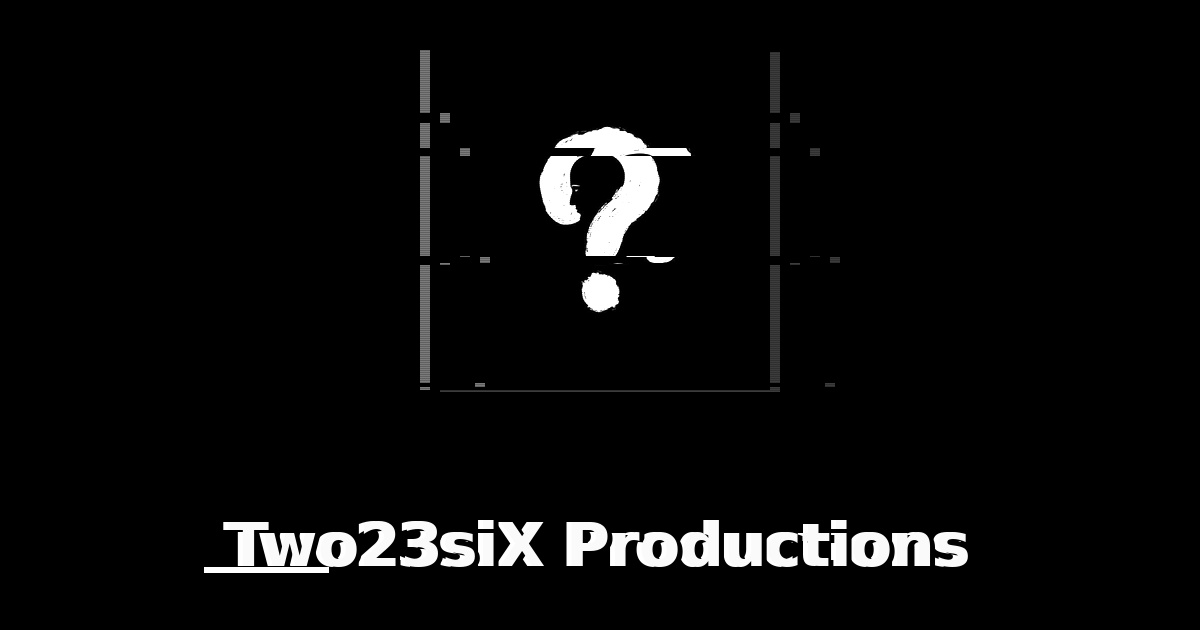
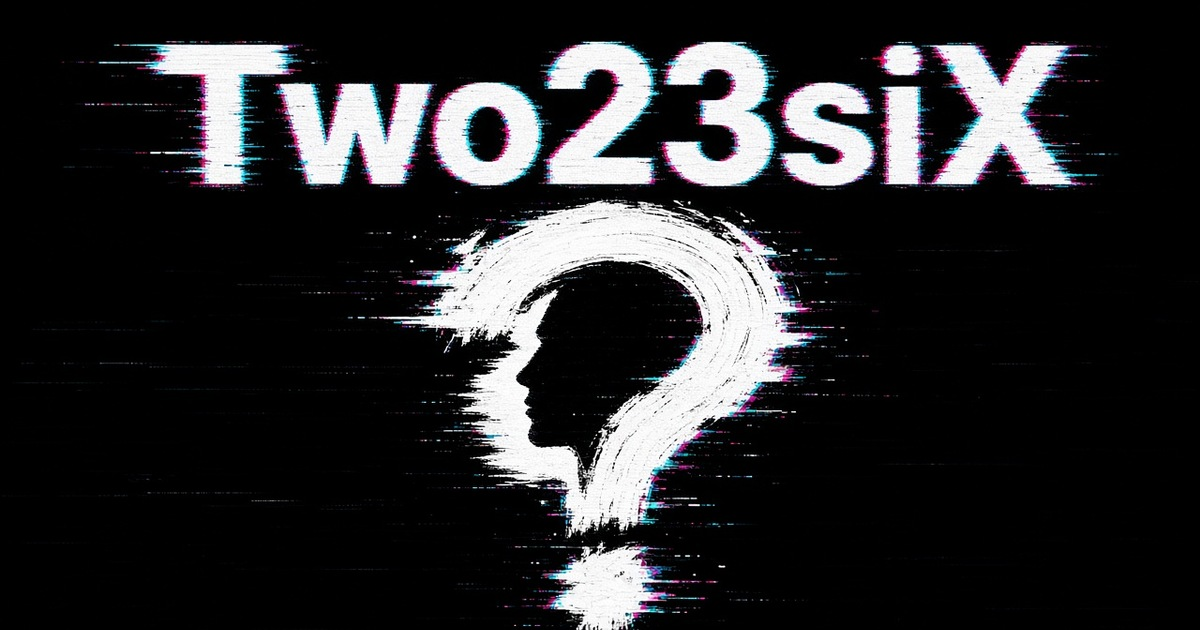
Force new Two23siX glitch OG across all share filenames + cache bust

Changed region(s): [[0.0617, 0.0603, 0.925, 1.0]]

diff --git a/index.html b/index.html
@@ -5,18 +5,18 @@
   <meta charset="UTF-8" />
   <meta name="viewport" content="width=device-width, initial-scale=1" />
   <title>TIME TRAVELER</title>
-  <meta name="tt-cache" content="20260912-og-share-v3" />
+  <meta name="tt-cache" content="20260912-og-v3b" />
   <!-- ttb-layout:v5 -->
   <meta name="description" content="MY WORK — books, coffee, music, The Time Traveler Bible, and more from TIME TRAVELER." />
-  <meta property="og:title" content="Two23siX Productions" />
+  <meta property="og:title" content="Two23siX.com" />
   <meta property="og:description" content="Books, music, film, and The Time Traveler Bible." />
-  <meta property="og:image" content="https://two23six.com/og-share-v3.jpg" />
+  <meta property="og:image" content="https://two23six.com/og-share-v3.jpg?v=20260912b" />
   <meta property="og:url" content="https://two23six.com/" />
   <meta property="og:type" content="website" />
   <meta name="twitter:card" content="summary_large_image" />
-  <meta name="twitter:title" content="Two23siX Productions" />
+  <meta name="twitter:title" content="Two23siX.com" />
   <meta name="twitter:description" content="Books, music, film, and The Time Traveler Bible." />
-  <meta name="twitter:image" content="https://two23six.com/og-share-v3.jpg" />
+  <meta name="twitter:image" content="https://two23six.com/og-share-v3.jpg?v=20260912b" />
   <link rel="icon" href="theme.jpg" type="image/jpeg" />
   <link rel="preconnect" href="https://fonts.googleapis.com" />
   <link rel="preconnect" href="https://fonts.gstatic.com" crossorigin />
